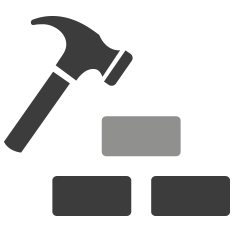
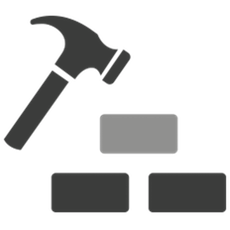
edit css hình service

Changed region(s): [[0.6696, 0.7304, 0.9739, 0.7609], [0.2435, 0.7304, 0.5478, 0.7609]]

diff --git a/css/style.css b/css/style.css
@@ -1171,7 +1171,7 @@ cite{
 	position:relative; text-align: center;
 	}
 .team-img img{
-	width:80%; display: inline-block;
+	width:76%; display: inline-block;
 	}
 .team-members .block-inner{
 	height:252px; /*252/18=14*/
